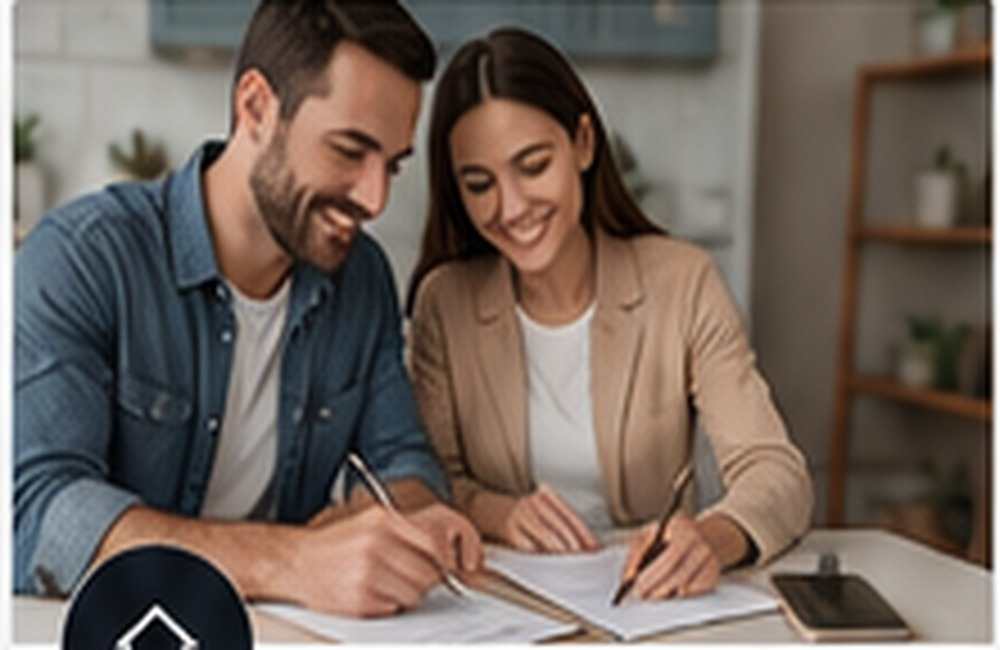
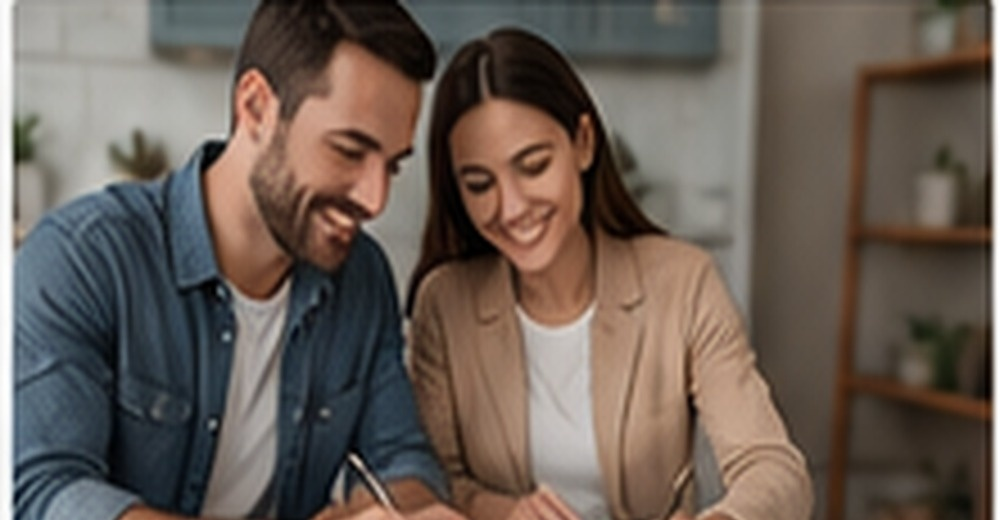
Add files via upload

diff --git a/assets/css/responsive.css b/assets/css/responsive.css
@@ -153,8 +153,4 @@
   }
 }
 
-/* Final mobile icon cleanup: service photos already include their own symbol */
-@media (max-width:560px){
-  .service-icon{display:none !important;}
-  .card-body{padding-top:26px !important;}
-}
+
